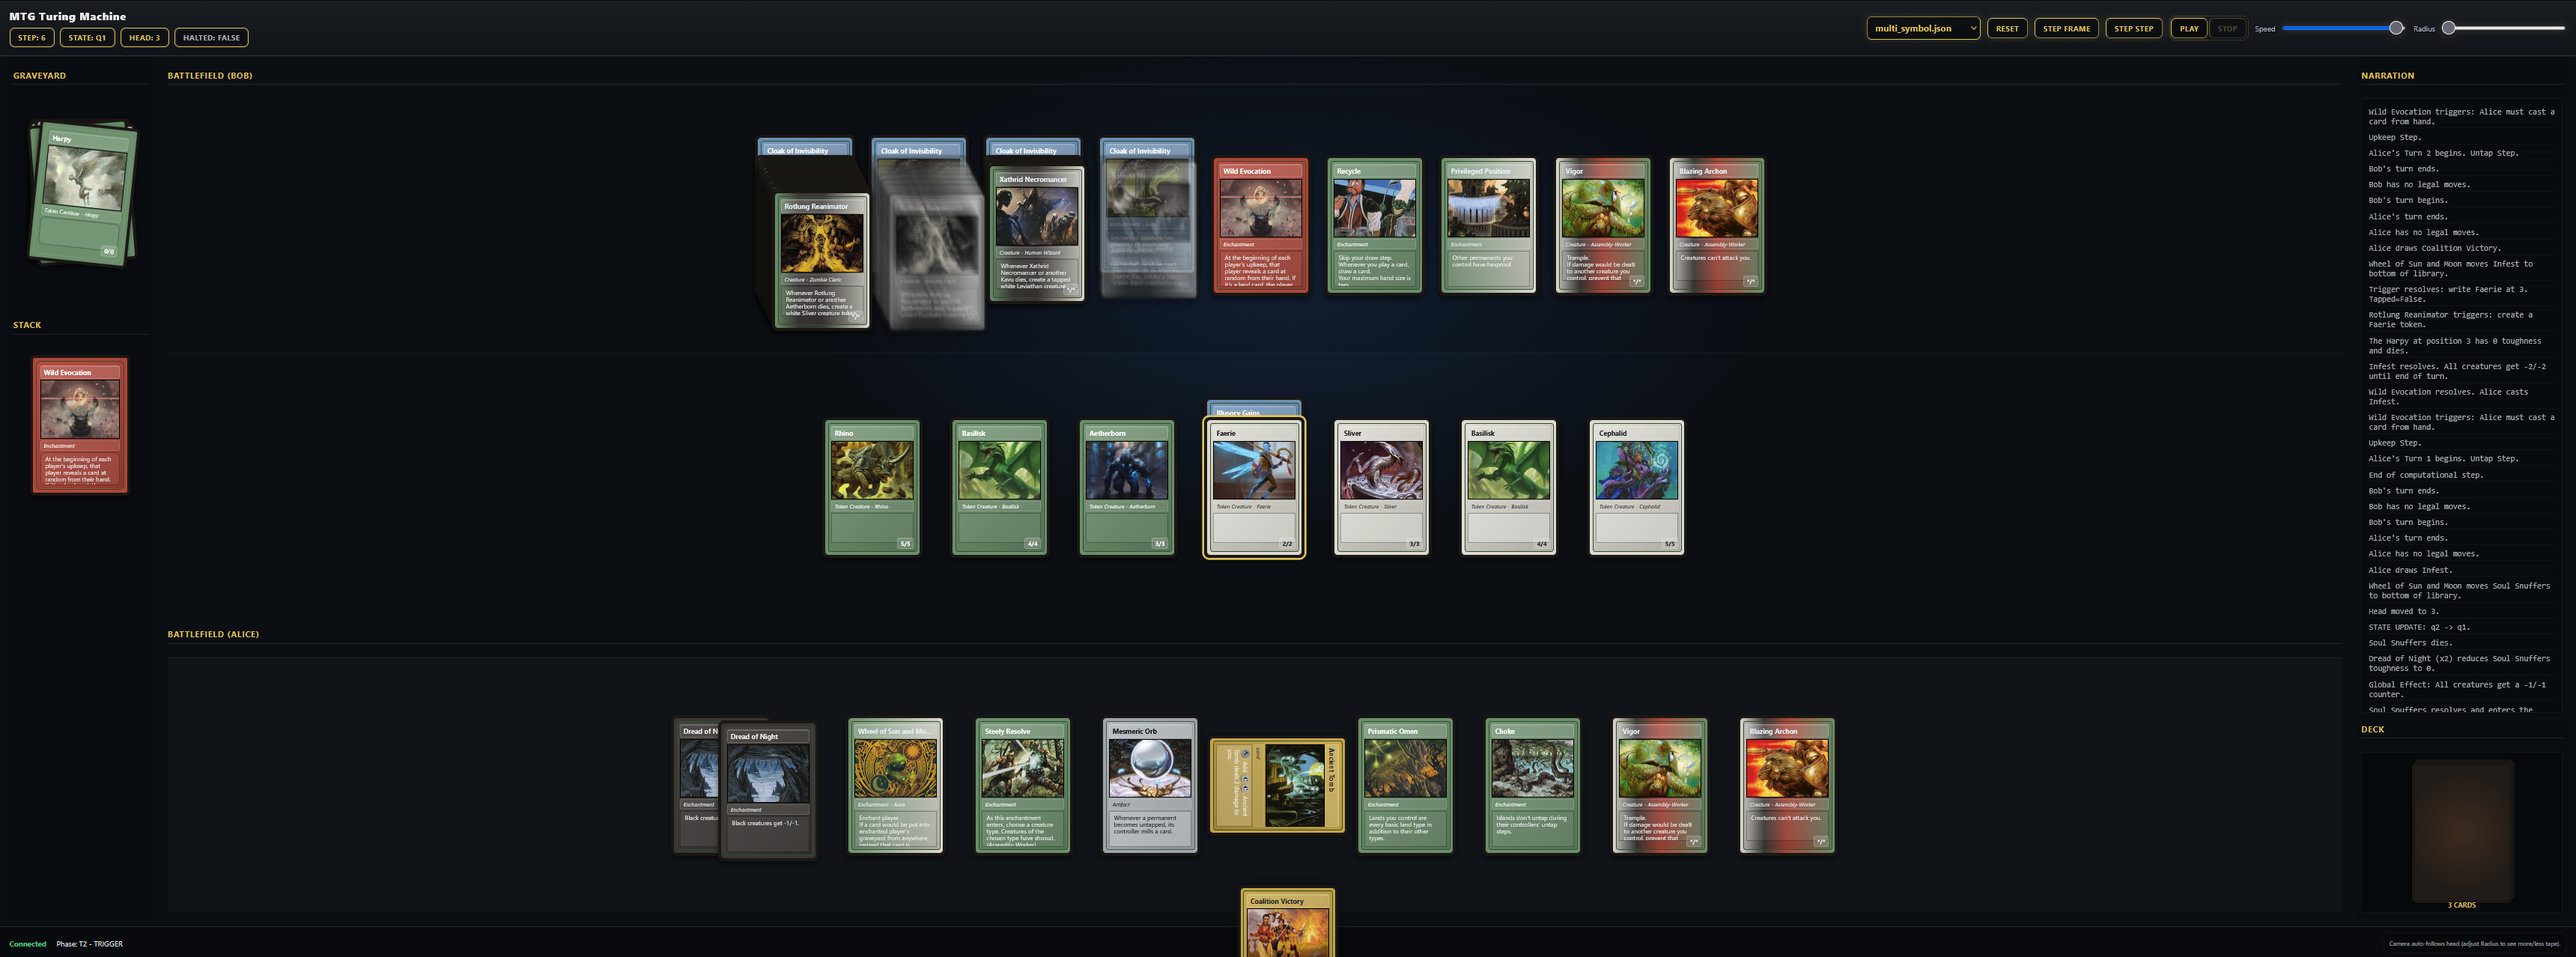
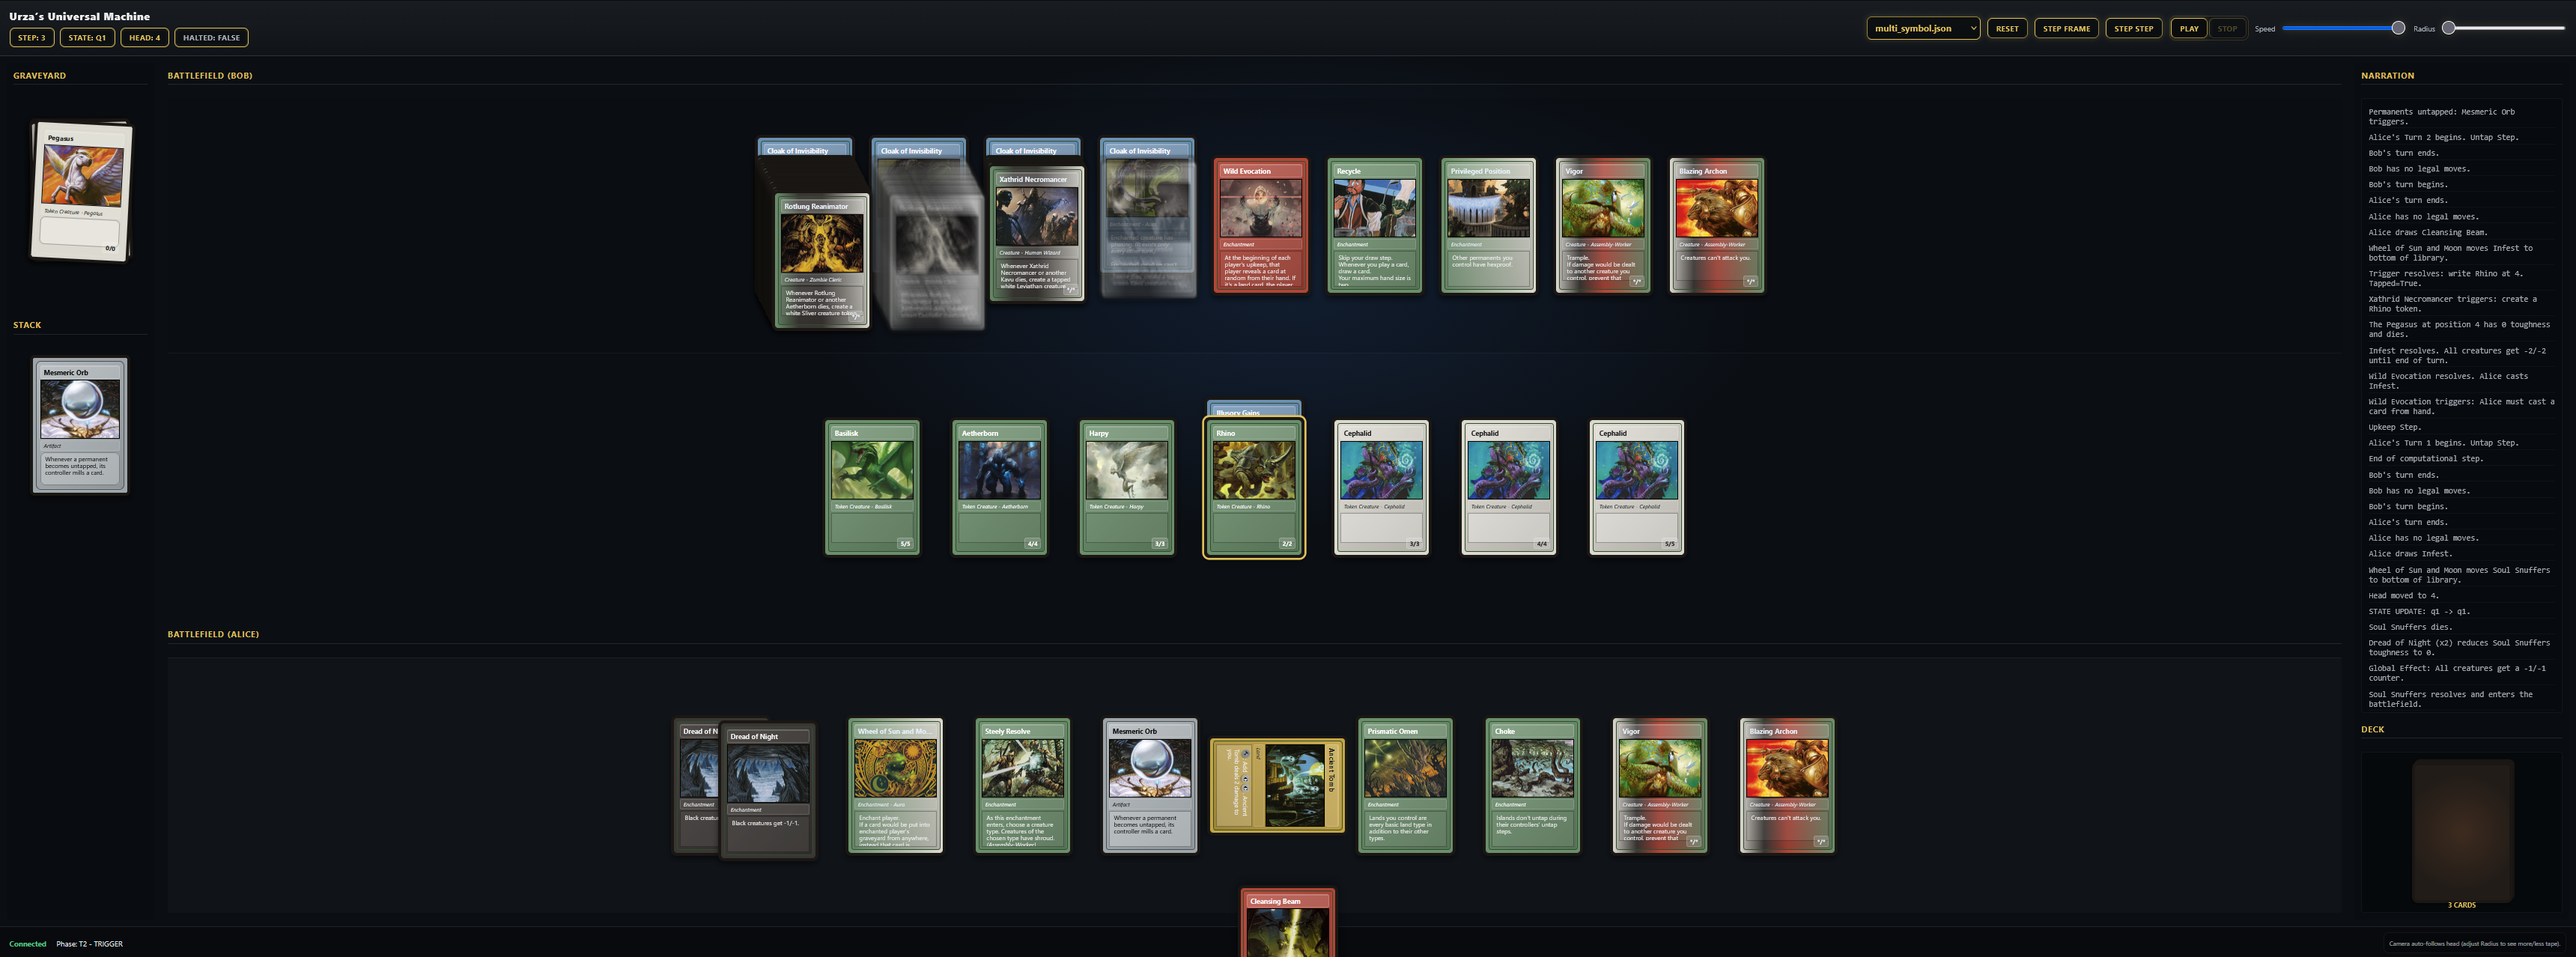
Changed title according to repo

diff --git a/web/index.html b/web/index.html
@@ -3,14 +3,14 @@
 <head>
     <meta charset="UTF-8"/>
     <meta name="viewport" content="width=device-width, initial-scale=1"/>
-    <title>MTG Turing Machine</title>
+    <title>Urza’s Universal Machine</title>
     <link rel="stylesheet" href="/static/style.css"/>
 </head>
 <body>
 <div id="app">
     <header class="hud">
         <div class="hud-left">
-            <div class="brand">MTG Turing Machine</div>
+            <div class="brand">Urza’s Universal Machine</div>
             <div class="hud-stats">
                 <span class="pill" id="hud-step">STEP: -</span>
                 <span class="pill" id="hud-state">STATE: -</span>
